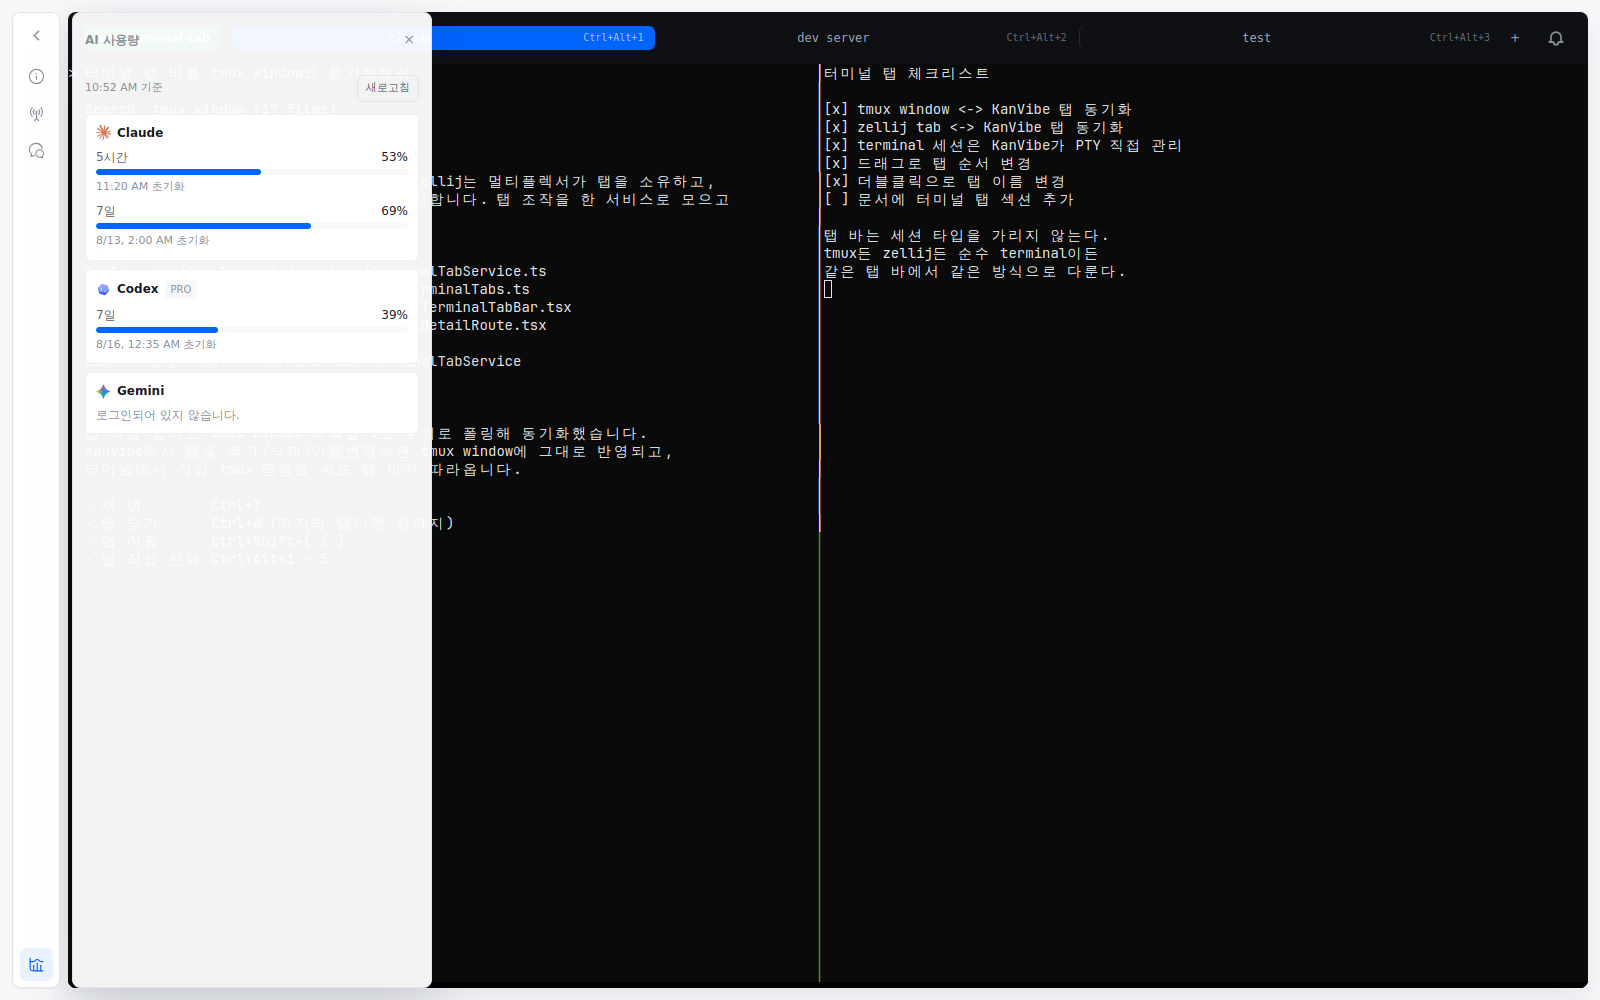
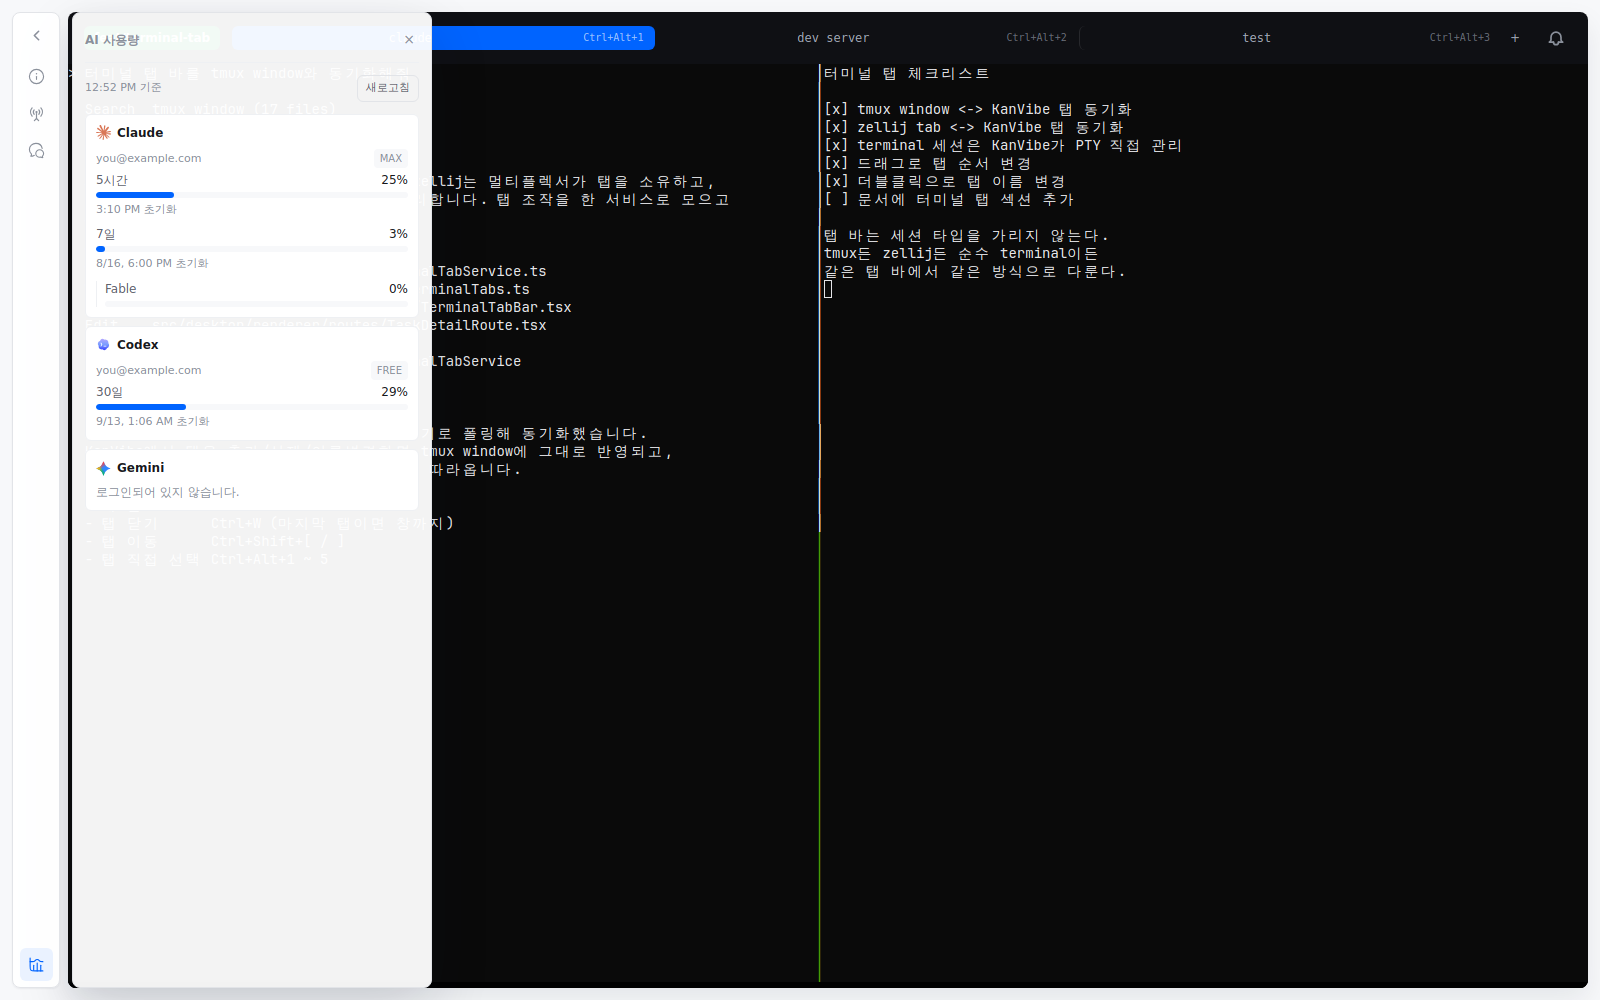
docs: AI 사용량을 주요 기능으로 올리고 캡처를 새로 교체
사용량 패널을 README 상단 히어로에 전폭으로 올려 메인 보드, 태스크 상세와 같은 자리에 둔다.
Key Workflows의 같은 항목은 지웠다. 같은 1600x1000 이미지가 한 화면 안에서 두 번 나오기
때문이다. 사용법 문장은 히어로 캡션으로 옮겨 정보는 잃지 않는다.

캡처는 계정 줄과 기간 묶음이 들어간 지금 화면으로 다시 찍었다. 계정 이메일은 예시 주소로
가려져 있고, 크기가 이전과 같아 문서 레이아웃은 그대로다. docs site도 같은 파일을 참조하므로
함께 교체한다.

diff --git a/README.md b/README.md
@@ -31,6 +31,15 @@ Use shortcuts for project filters, task search, notifications, task detail panel
       <strong>Task detail workspace</strong>
     </td>
   </tr>
+  <tr>
+    <td colspan="2">
+      <img src="./docs/images/readme/kanvibe-ai-usage.png" alt="AI usage panel showing remaining Claude, Codex, and Gemini quota per account" width="100%">
+      <br>
+      <strong>AI usage — remaining quota per account, without leaving the terminal</strong>
+      <br>
+      Press <code>Cmd/Ctrl+0</code> on a task detail page, or click the bottom dock icon. Every card names the account and plan it belongs to, and Claude's per-model weekly limits sit under the weekly total they draw from.
+    </td>
+  </tr>
 </table>
 
 <a href="https://www.youtube.com/watch?v=8JTrvd3T_Z0">
@@ -75,13 +84,7 @@ Create follow-up branch TODOs directly from the highlighted search result, prese
 
 <img src="./docs/images/readme/kanvibe-quick-action-shortcut.png" alt="Quick task action shortcut" width="100%">
 
-### 6. AI Usage
-
-Press `Cmd/Ctrl+0` on a task detail page, or click the bottom dock icon, to see how much of each Claude, Codex, and Gemini subscription is left without leaving the workspace.
-
-<img src="./docs/images/readme/kanvibe-ai-usage.png" alt="AI usage panel showing remaining Claude, Codex, and Gemini quota" width="100%">
-
-### 7. Vim-Style Board Controls
+### 6. Vim-Style Board Controls
 
 Turn on Vim-style board controls in **Settings → Keyboard**, then move across task cards with `h/j/k/l`, find visible task text with `/`, open the new-task modal with `n`, move statuses with `:move progress`, and delete a focused task with `dd`.
 
